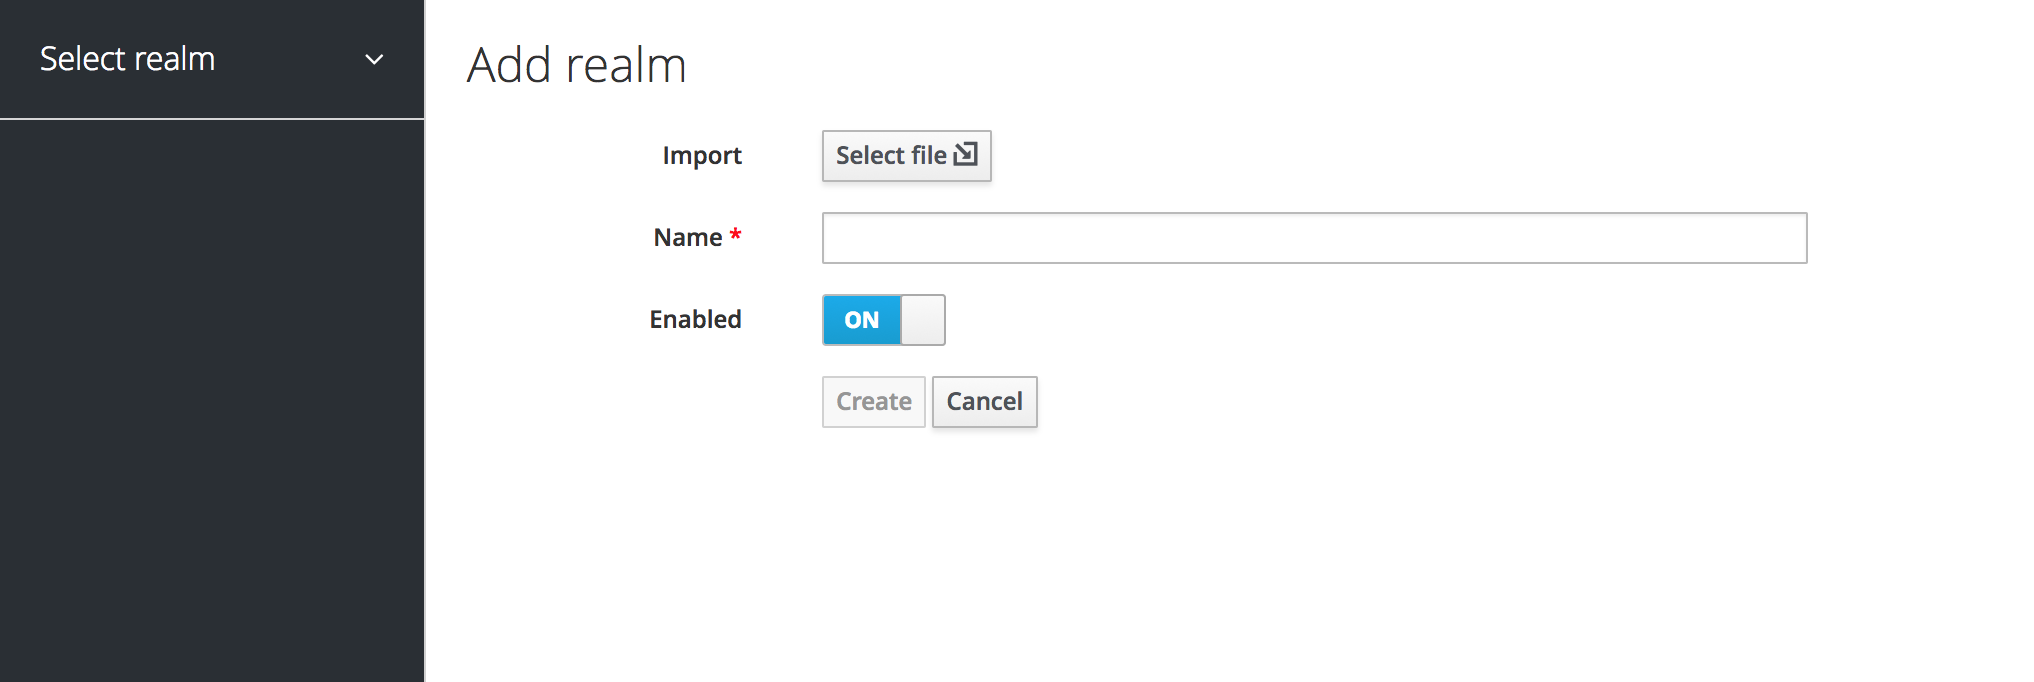
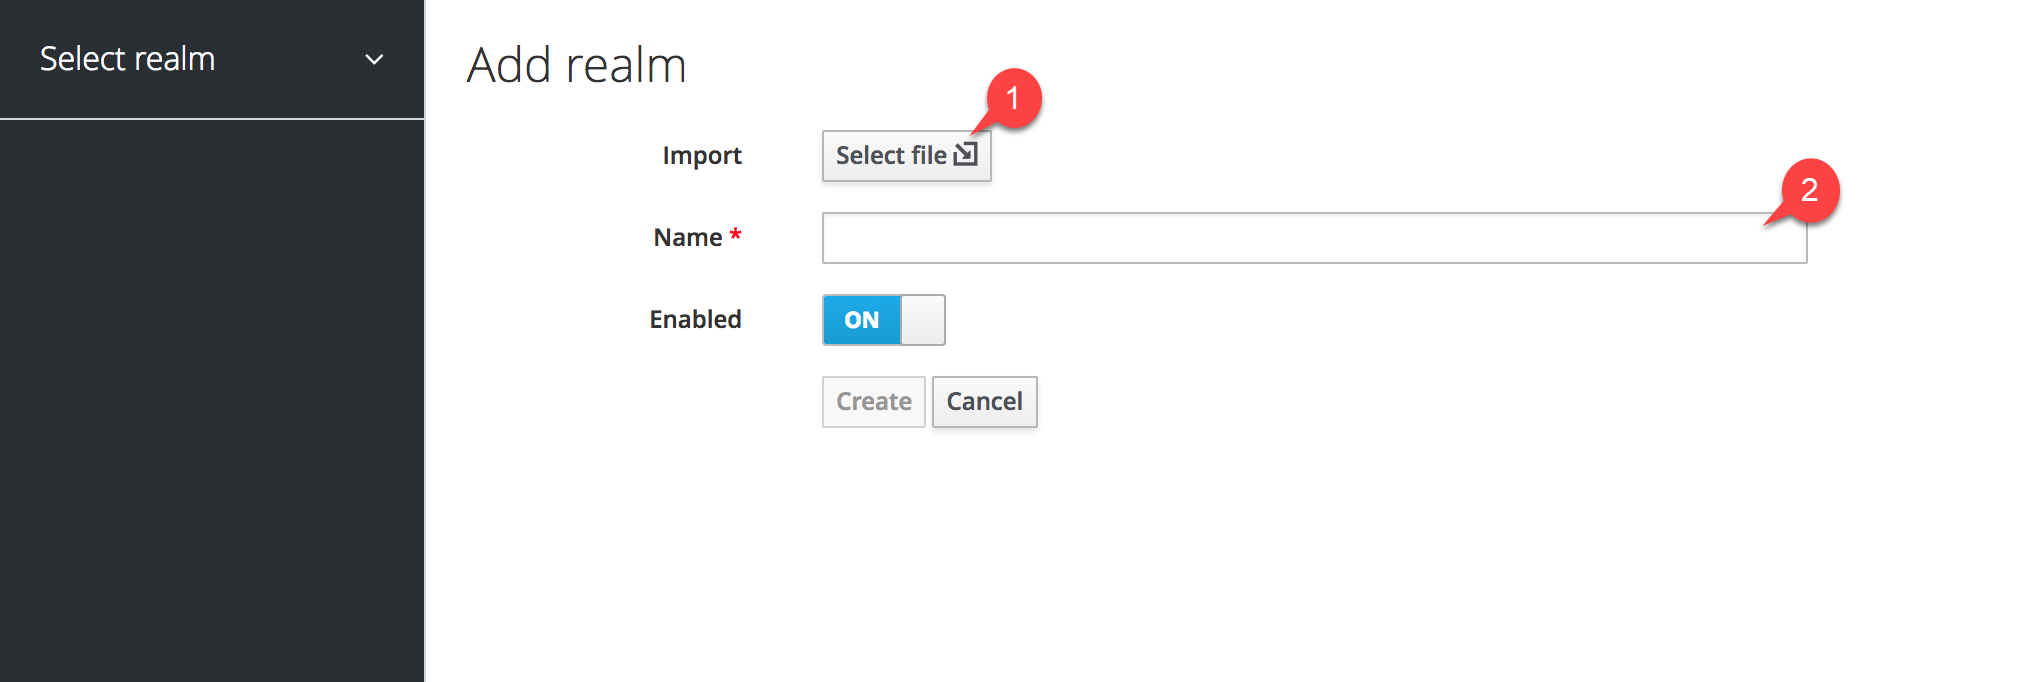
update keycloak page

Changed region(s): [[0.4646, 0.0924, 0.5265, 0.2155], [0.8673, 0.2155, 0.9292, 0.3387]]

diff --git a/pages/developer-docs/installation/keycloak_realm_configuration.md b/pages/developer-docs/installation/keycloak_realm_configuration.md
@@ -10,33 +10,59 @@ allowSearch: true
 
 ## Access Keycloak Administration
 
-Assuming that you have set up Sunbird on sunbird.example.com, You can open Keycloak administration panel simply by navigating to **https://sunbird.example.com/auth/admin**
+Assuming that you have set up Sunbird on sunbird.example.com, You can open Keycloak administration panel simply by navigating to: **https://sunbird.example.com/auth/admin**
 
 ## Import Realm
 
-- To simplify the configuration, Sunbird provides a ready to use realm that can be readily imported and used. Download the realm <a  href="https://raw.githubusercontent.com/project-sunbird/project-sunbird.github.io/dev/pages/developer-docs/installation/other_files/keycloak-realm.json">here</a>.
+- To simplify the configuration, Sunbird provides a ready to use realm that can be imported and used. You can
+[Download](https://raw.githubusercontent.com/project-sunbird/project-sunbird.github.io/dev/pages/developer-docs/installation/other_files/keycloak-realm.json) the realm.
 
-- To import the realm, use the 'Add realm' button as shown in the following screens. 
+Follow the steps to add, import and create the keycloak realm:
+<table>
+    <tr>
+         <th style="width:35%;">Step</th>
+         <th style="width:65%;">Screen</th>
+    </tr>
+ <tr>
+        <td> 
+        In order to  import the realm:<br> 
+        1. Click on Add realm Button
+        </td>
+            <td>
+            <img src="pages/developer-docs/installation/images/keycloack-add-realm.png">
+            </td>
+</tr>
+<tr>
+        <td> On the add realm screen:<br>
+        
+1. Click on <strong>select file </strong> next to the Import label on the screen.<br>Choose the appropriate .json file.
 
-{% image src='pages/developer-docs/installation/images/keycloack-add-realm.png' half center alt='Keycloak realm' %}{:target="_blank"}
+2. Write the appropriate name <br>
+        </td>
+            <td>
+            <img src="pages/developer-docs/installation/images/keycloak-choose-json.png">
+            </td>
+</tr>
+<tr>
+        <td> 1. Click on Create button
+        </td>
+            <td>
+            <img src="pages/developer-docs/installation/images/keycloak-import-realm-create.png">
+            </td>
+</tr>
+</table>
 
-{% image src='pages/developer-docs/installation/images/keycloak-choose-json.png' half center alt='choose keycloak json' %}{:target="_blank"}
-
-- On the import screen, choose the json file and click 'Create'.
-
-{% image src='pages/developer-docs/installation/images/keycloak-import-realm.png' half center alt='Keycloak import realm' %}{:target="_blank"}
-
-Once the realm is imported ensure the realm is set as active realm before proceeding with the rest of the configuration.
+Once the realm is imported ensure that the realm is set as active before proceeding with the rest of the configuration.
 
 ## Create User to Access User Management API
 
 Navigate to Manage, then to Users and create a new user.
 
-- Enter the username as `user-manager`, set the email to be verified and save. 
+1. Enter the username as `user-manager`, set the email to be verified and save.
 
-- Assign a password to this user.
+2. Assign a password to this user.
 
-- Update client roles under role mappings to ensure that this user has the `manage-users`, `query-users`, `query-groups` and `view-users` permissions.
+3. Update client roles under role mappings to ensure that this user has the `manage-users`, `query-users`, `query-groups` and `view-users` permissions.
 
 **Note:** Refer to the following screenshot for reference configuration.
 
@@ -46,7 +72,7 @@ Navigate to Manage, then to Users and create a new user.
 
 ## Update Client & Secrets
 
-Navigate to Clients and make the following changes to each of the clients. 
+Navigate to Clients and make the following changes to each of the clients.
 
 **Note:** Modify only the clients listed below. You do not need to modify the settings for other clients.
 
@@ -69,7 +95,7 @@ Add Valid Redirect URIs `https://sunbird.example.com/private/*` and `https://sun
 Change the Root URL to `https://sunbird.example.com`
 Go to the Credentials tab and regenerate the Secret and Registration Access Token. Use the secret as the value for the `sunbird_trampoline_secret` configuration.
 
-##  SMTP Configuration
+## SMTP Configuration
 
 It is necessary to configure email for smooth working of the password reset functionality and user management workflows. 
 Navigate to `Realm Settings > Email`. Enter the SMTP credentials and click the Test Connection button to verify that the SMTP connection is working.
